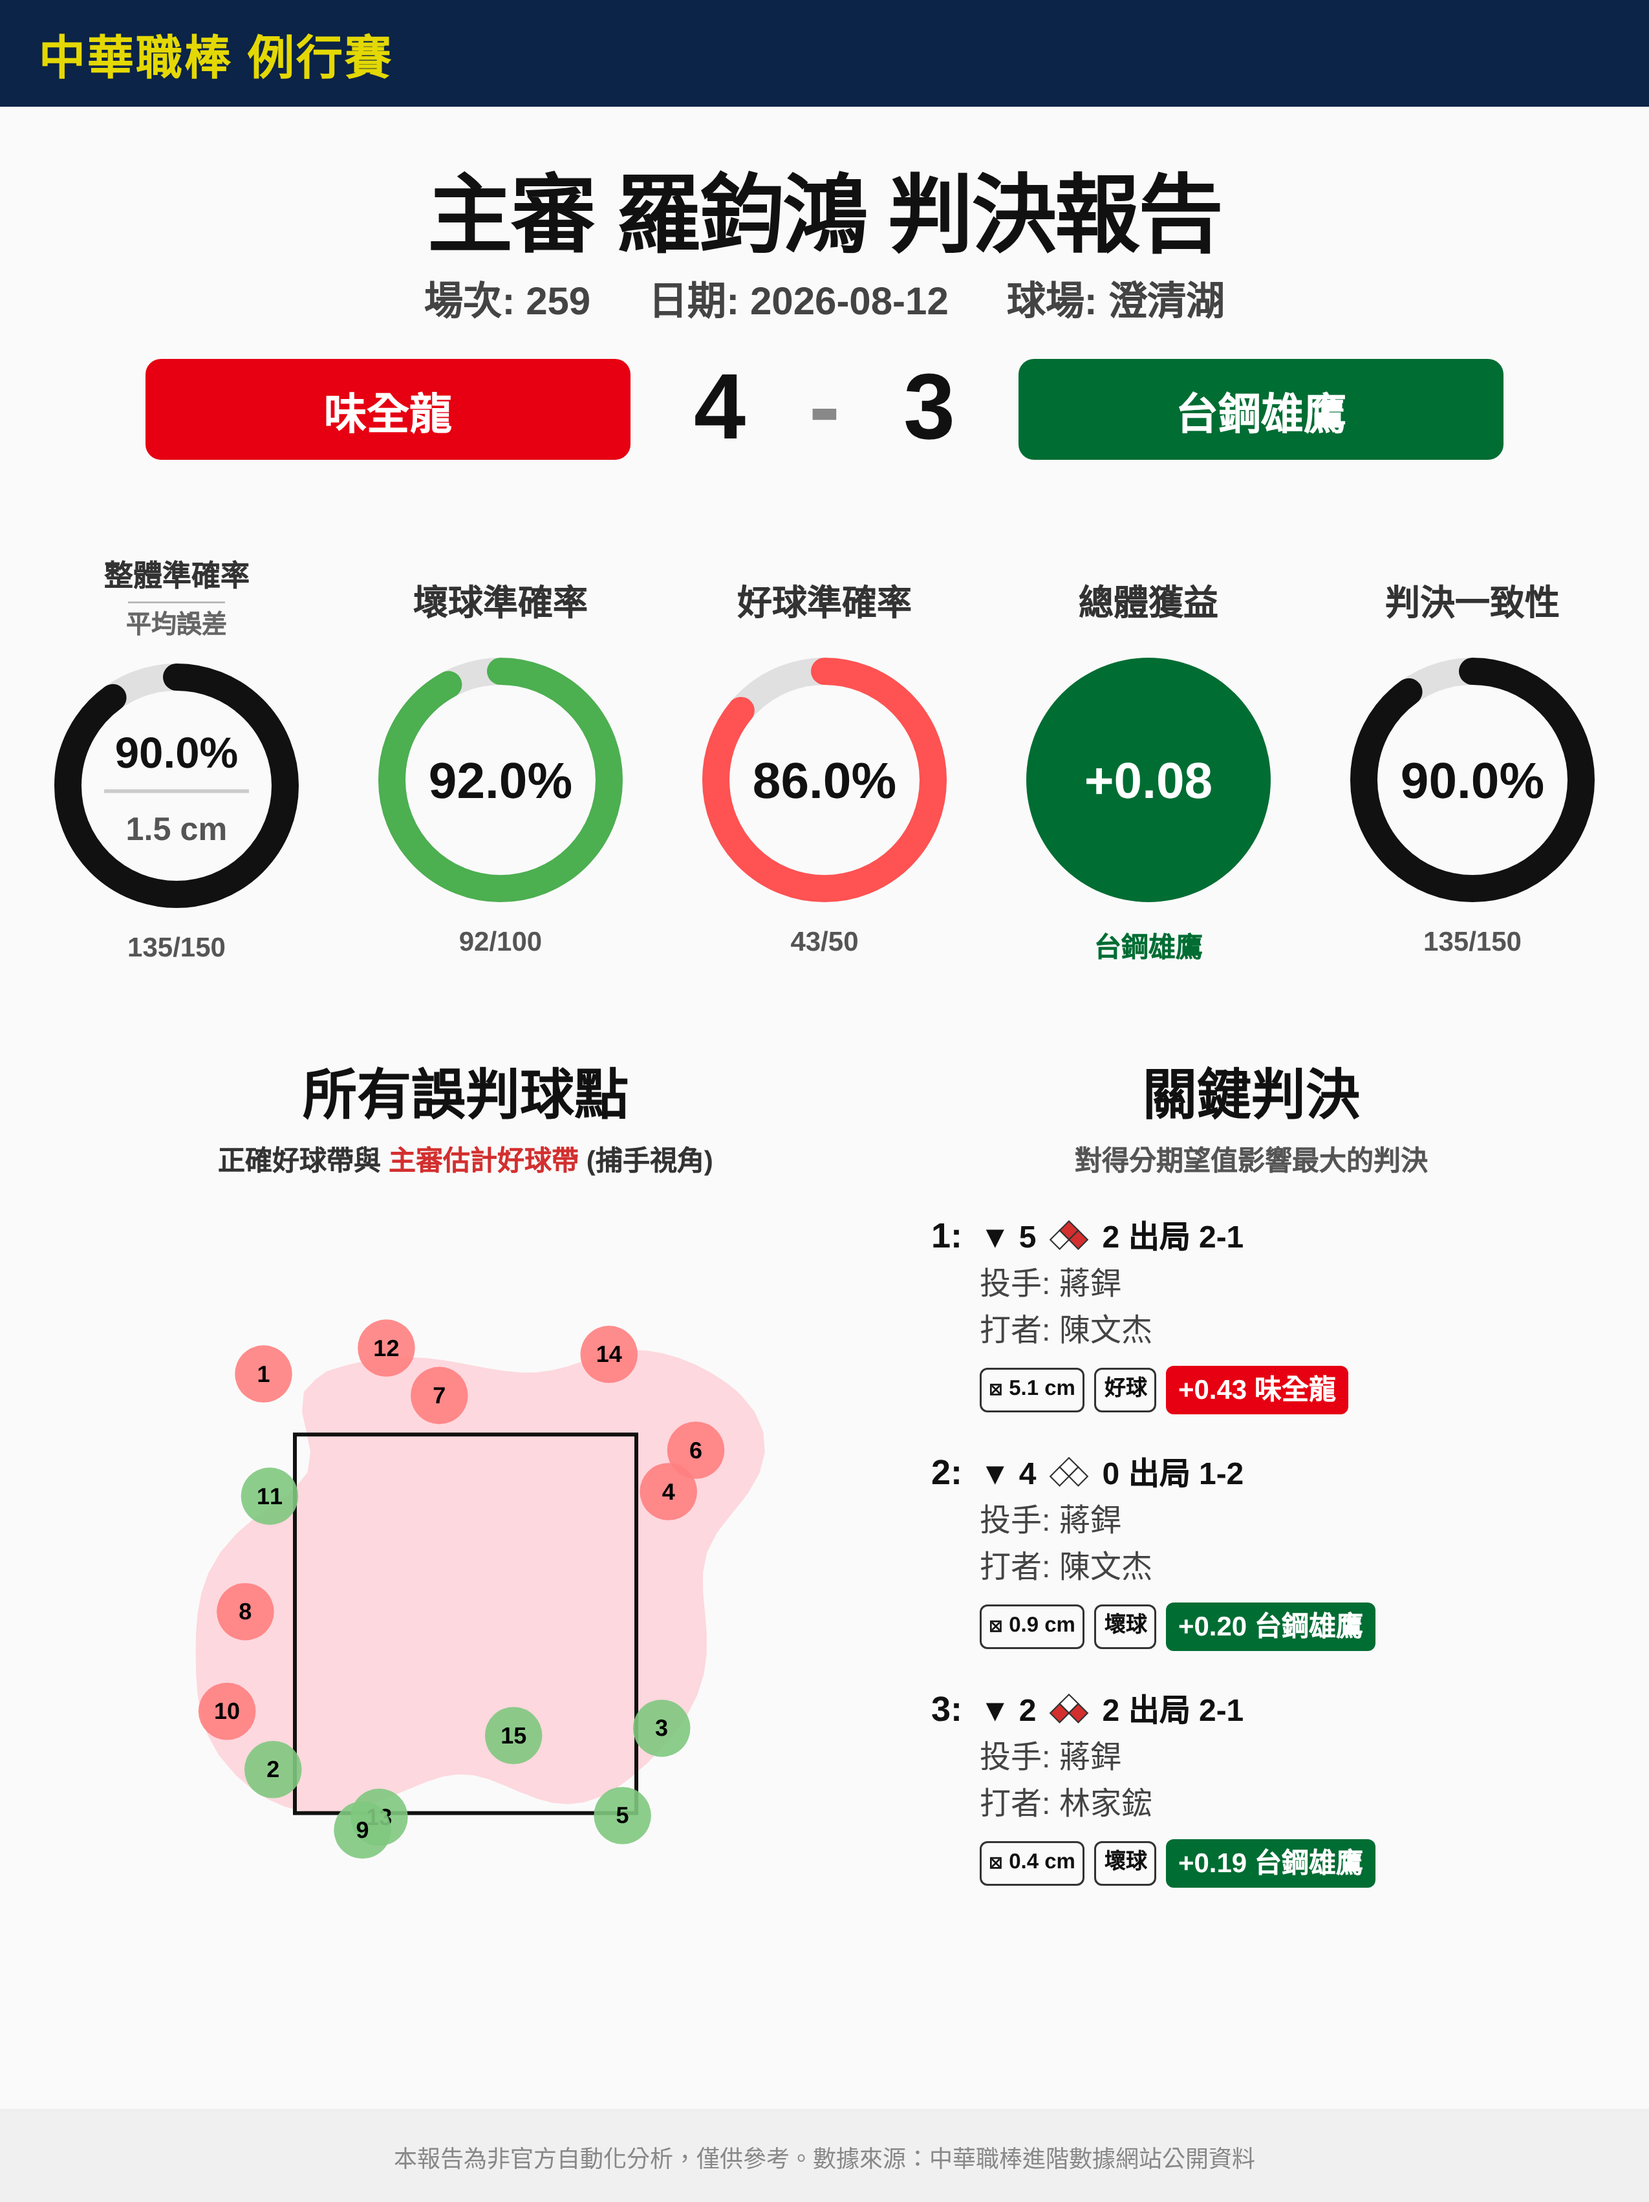
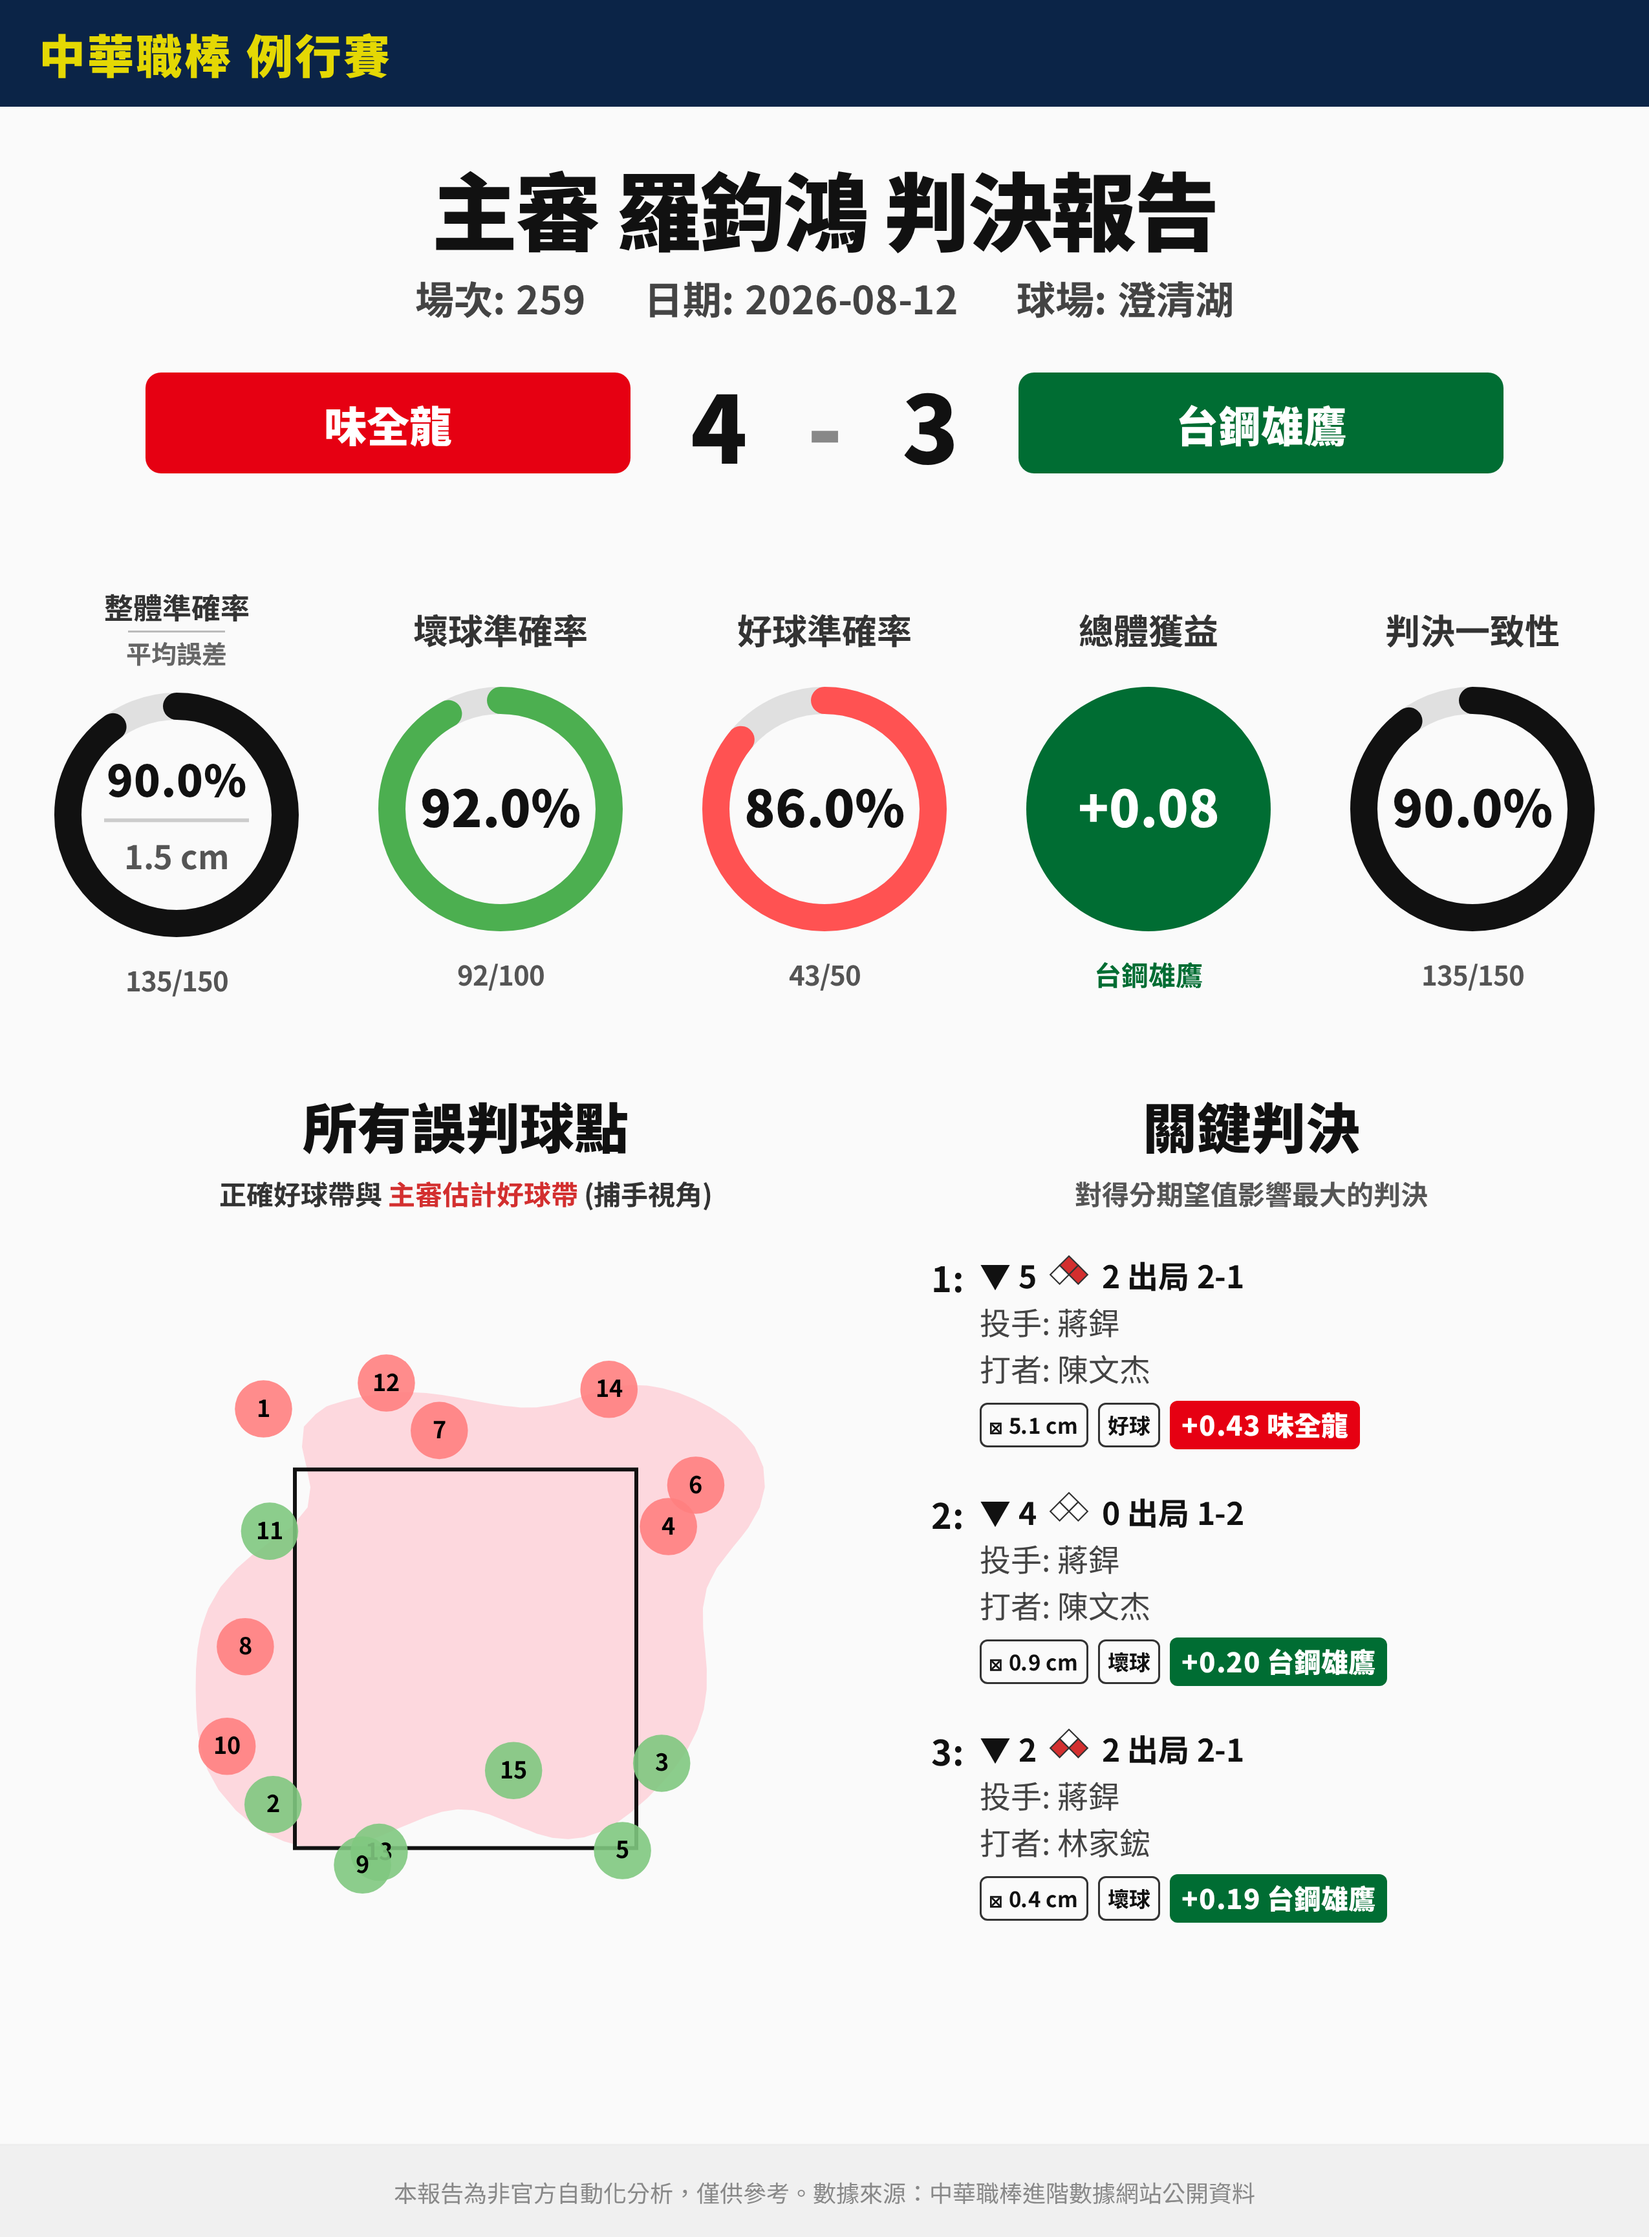
Publish report for 2026-A-259

diff --git a/index.html b/index.html
@@ -3210,7 +3210,7 @@
     </div>
     
     <footer>
-        最後更新時間：2026-08-13 22:47:21<br>
+        最後更新時間：2026-08-13 22:54:09<br>
         本頁面為自動化系統生成
     </footer>
 </body>
